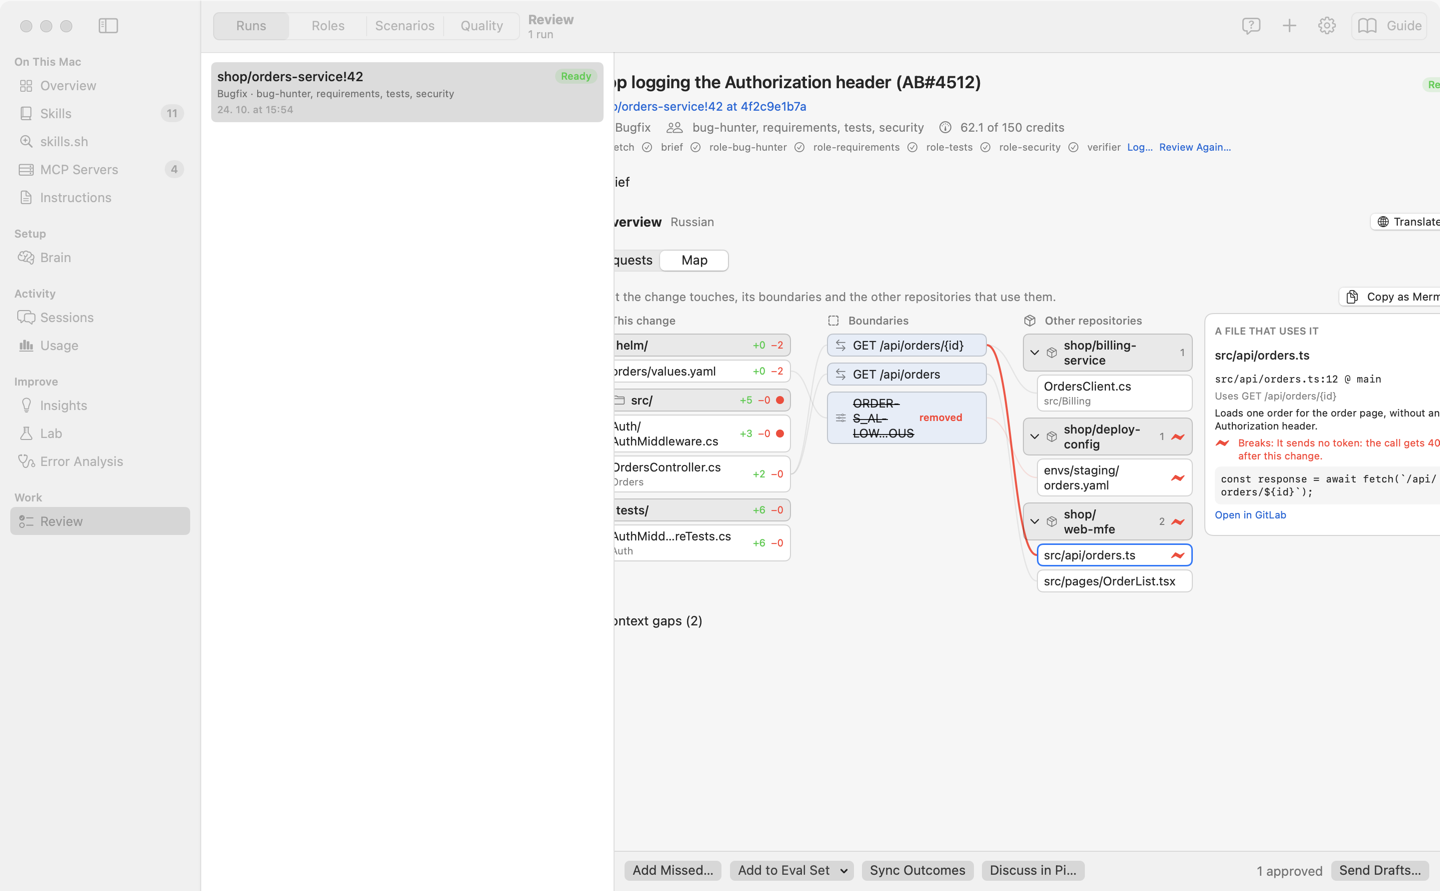
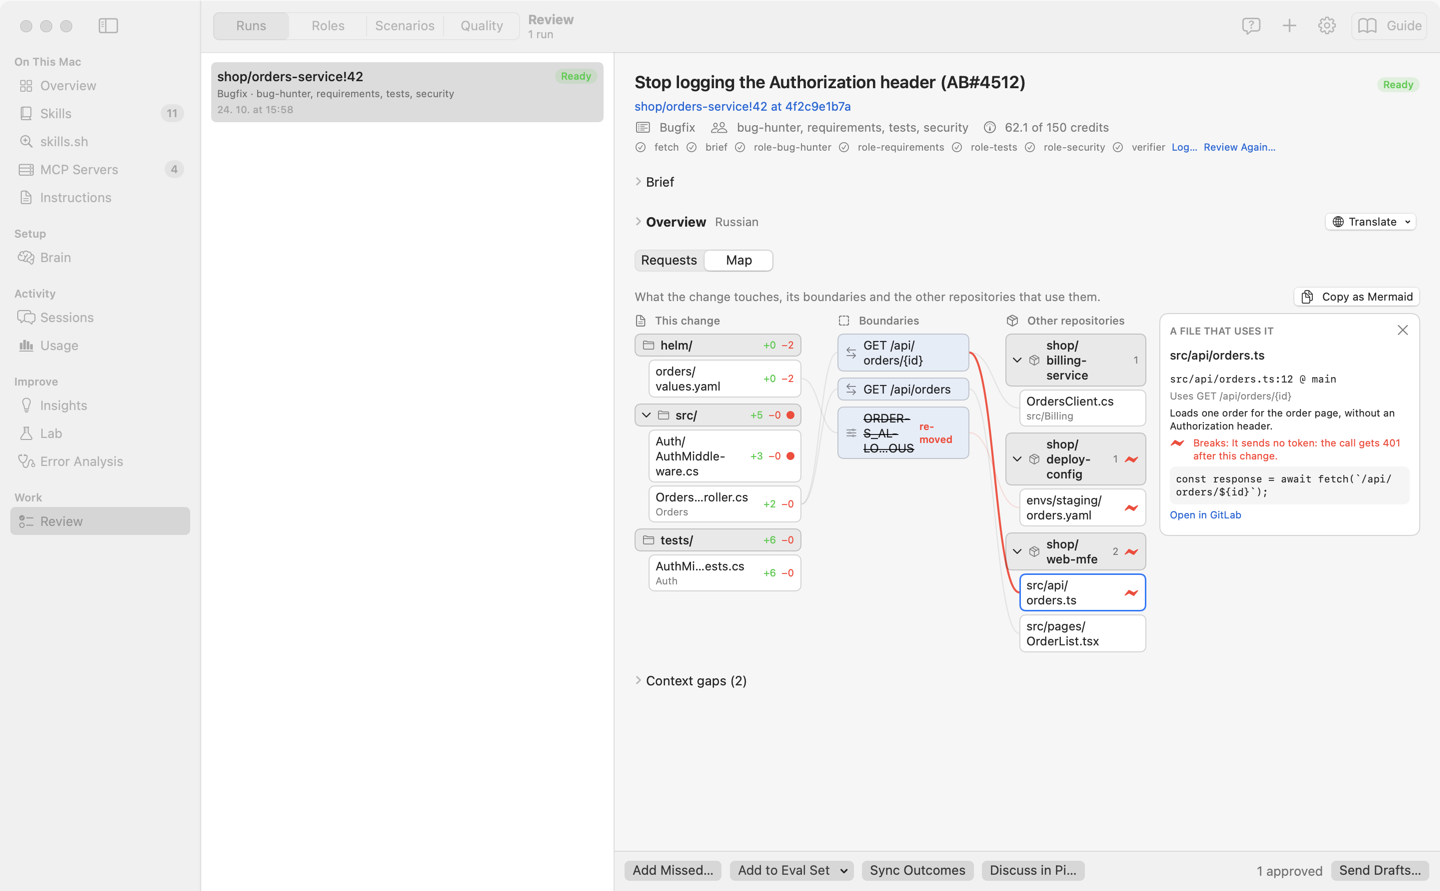
Keep the review map inside its pane
The lanes measured their own width and took at least 530 pt plus the
260 pt inspector: wider than the detail pane, so the whole run detail
grew past it and was clipped on both sides, and once wide the measured
width held itself. The lanes now sit in a sideways scroll view that is
measured instead (it takes the width it is offered), with smaller least
widths; under them the lanes scroll and the inspector stays in view.
Snapshots print the detail's and the map's widths.

diff --git a/AKit/Review/ReviewMapView.swift b/AKit/Review/ReviewMapView.swift
@@ -29,7 +29,9 @@ struct ReviewMapView: View {
     /// Modules and projects folded to one node; those over 8 files start folded.
     @State private var folded: Set<String>
     @State private var dependentsOpen = false
-    /// The lanes' width beside the inspector: each lane gets its share of it.
+    /// The width of the lanes' scroll view beside the inspector: each lane gets its share of it.
+    /// Measured on the scroll view, which takes the width it is offered, never the lanes' own:
+    /// the lanes can't widen what they are measured by, and the map never widens its pane.
     @State private var lanesWidth: CGFloat = 0
 
     /// Over this many files a module (or a project) starts folded.
@@ -91,6 +93,9 @@ struct ReviewMapView: View {
                 }
             }
         }
+        .onGeometryChange(for: CGFloat.self, of: { $0.size.width }) { width in
+            if DebugSnapshot.options != nil { print("map: \(Int(width)) wide") }
+        }
         // Another map in the same view (another run): its own folds, nothing selected.
         .onChange(of: map) { _, map in
             folded = Self.startFolded(map)
@@ -102,33 +107,40 @@ struct ReviewMapView: View {
 
     private static let laneSpacing: CGFloat = 36
 
+    /// The lanes in a sideways scroll view: under their least widths they scroll inside it, and the
+    /// inspector beside them stays in view.
     private var lanes: some View {
-        HStack(alignment: .top, spacing: Self.laneSpacing) {
-            lane("This change", systemImage: "doc.text", width: laneWidth(0.38, least: 200)) { changeLane }
-            lane("Boundaries", systemImage: "square.dashed", width: laneWidth(0.30, least: 160)) { boundariesLane }
-            lane("Other repositories", systemImage: "shippingbox", width: laneWidth(0.32, least: 170)) { othersLane }
-        }
-        .backgroundPreferenceValue(MapAnchors.self) { anchors in
-            GeometryReader { proxy in
-                Canvas { context, _ in draw(in: &context, anchors: anchors, proxy: proxy) }
+        ScrollView(.horizontal) {
+            HStack(alignment: .top, spacing: Self.laneSpacing) {
+                lane("This change", systemImage: "doc.text", width: laneWidth(0.38, least: 150)) { changeLane }
+                lane("Boundaries", systemImage: "square.dashed", width: laneWidth(0.30, least: 120)) { boundariesLane }
+                lane("Other repositories", systemImage: "shippingbox", width: laneWidth(0.32, least: 130)) { othersLane }
             }
-            .allowsHitTesting(false)
+            .backgroundPreferenceValue(MapAnchors.self) { anchors in
+                GeometryReader { proxy in
+                    Canvas { context, _ in draw(in: &context, anchors: anchors, proxy: proxy) }
+                }
+                .allowsHitTesting(false)
+            }
+            .onGeometryChange(for: CGFloat.self, of: { $0.size.width }) { width in
+                if DebugSnapshot.options != nil { print("map: lanes \(Int(width)) wide in \(Int(lanesWidth))") }
+            }
         }
         .frame(maxWidth: .infinity, alignment: .leading)
         .onGeometryChange(for: CGFloat.self, of: { $0.size.width }) { lanesWidth = $0 }
     }
 
-    /// A lane's share of the width beside the inspector, at least `least`; nil before it is measured.
-    private func laneWidth(_ share: CGFloat, least: CGFloat) -> CGFloat? {
-        lanesWidth > 0 ? max(least, ((lanesWidth - 2 * Self.laneSpacing) * share).rounded(.down)) : nil
+    /// A lane's share of the scroll view's width, at least `least`.
+    private func laneWidth(_ share: CGFloat, least: CGFloat) -> CGFloat {
+        max(least, ((lanesWidth - 2 * Self.laneSpacing) * share).rounded(.down))
     }
 
-    private func lane(_ title: String, systemImage: String, width: CGFloat?, @ViewBuilder content: () -> some View) -> some View {
+    private func lane(_ title: String, systemImage: String, width: CGFloat, @ViewBuilder content: () -> some View) -> some View {
         VStack(alignment: .leading, spacing: 6) {
             Label(title, systemImage: systemImage).font(.subheadline.weight(.medium)).foregroundStyle(.secondary)
             content()
         }
-        .frame(minWidth: width ?? 150, maxWidth: width ?? .infinity, alignment: .topLeading)
+        .frame(width: width, alignment: .topLeading)
     }
 
     // MARK: - Lanes

diff --git a/AKit/Review/ReviewView.swift b/AKit/Review/ReviewView.swift
@@ -281,6 +281,9 @@ struct ReviewRunDetail: View {
                 .padding(20)
                 .frame(maxWidth: .infinity, alignment: .leading)
             }
+            .onGeometryChange(for: CGFloat.self, of: { $0.size.width }) { width in
+                if DebugSnapshot.options != nil { print("review: detail \(Int(width)) wide, content \(Int(width) - 40)") }
+            }
             }
             actions
         }
